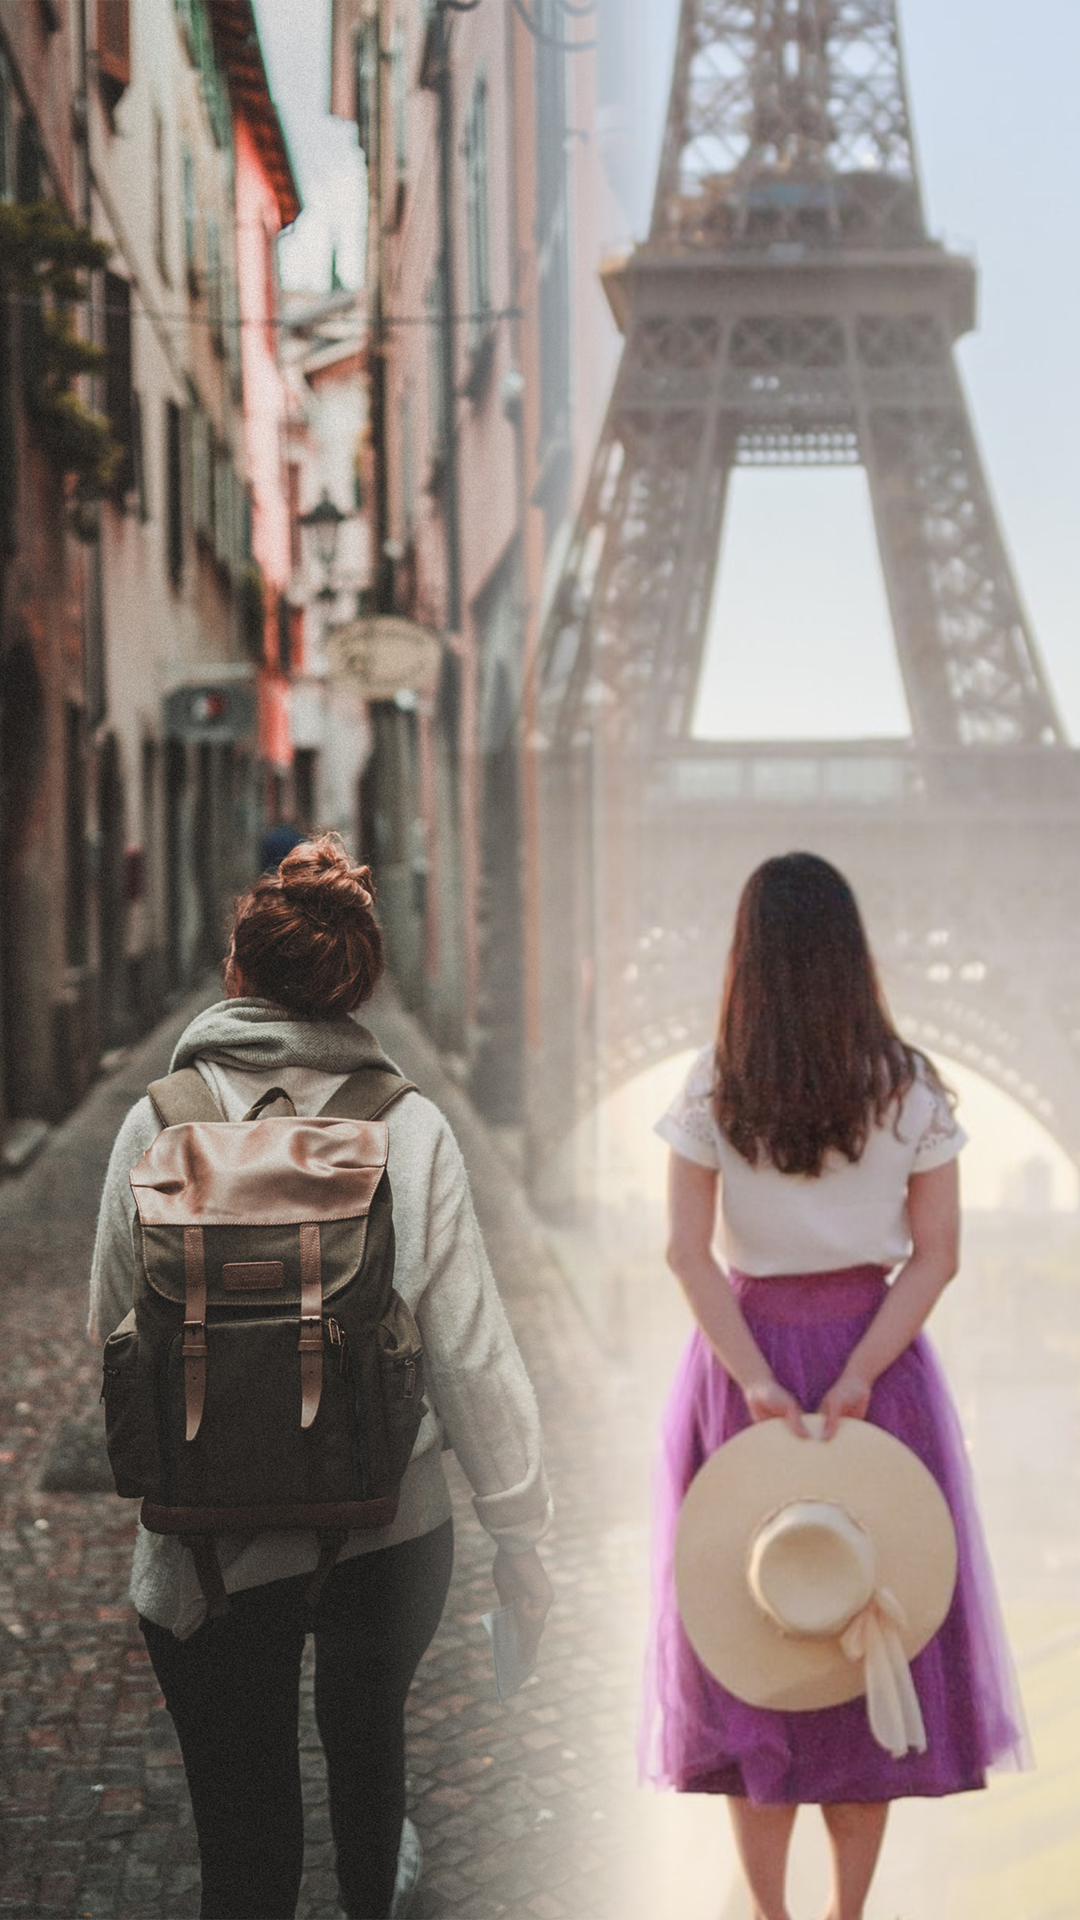
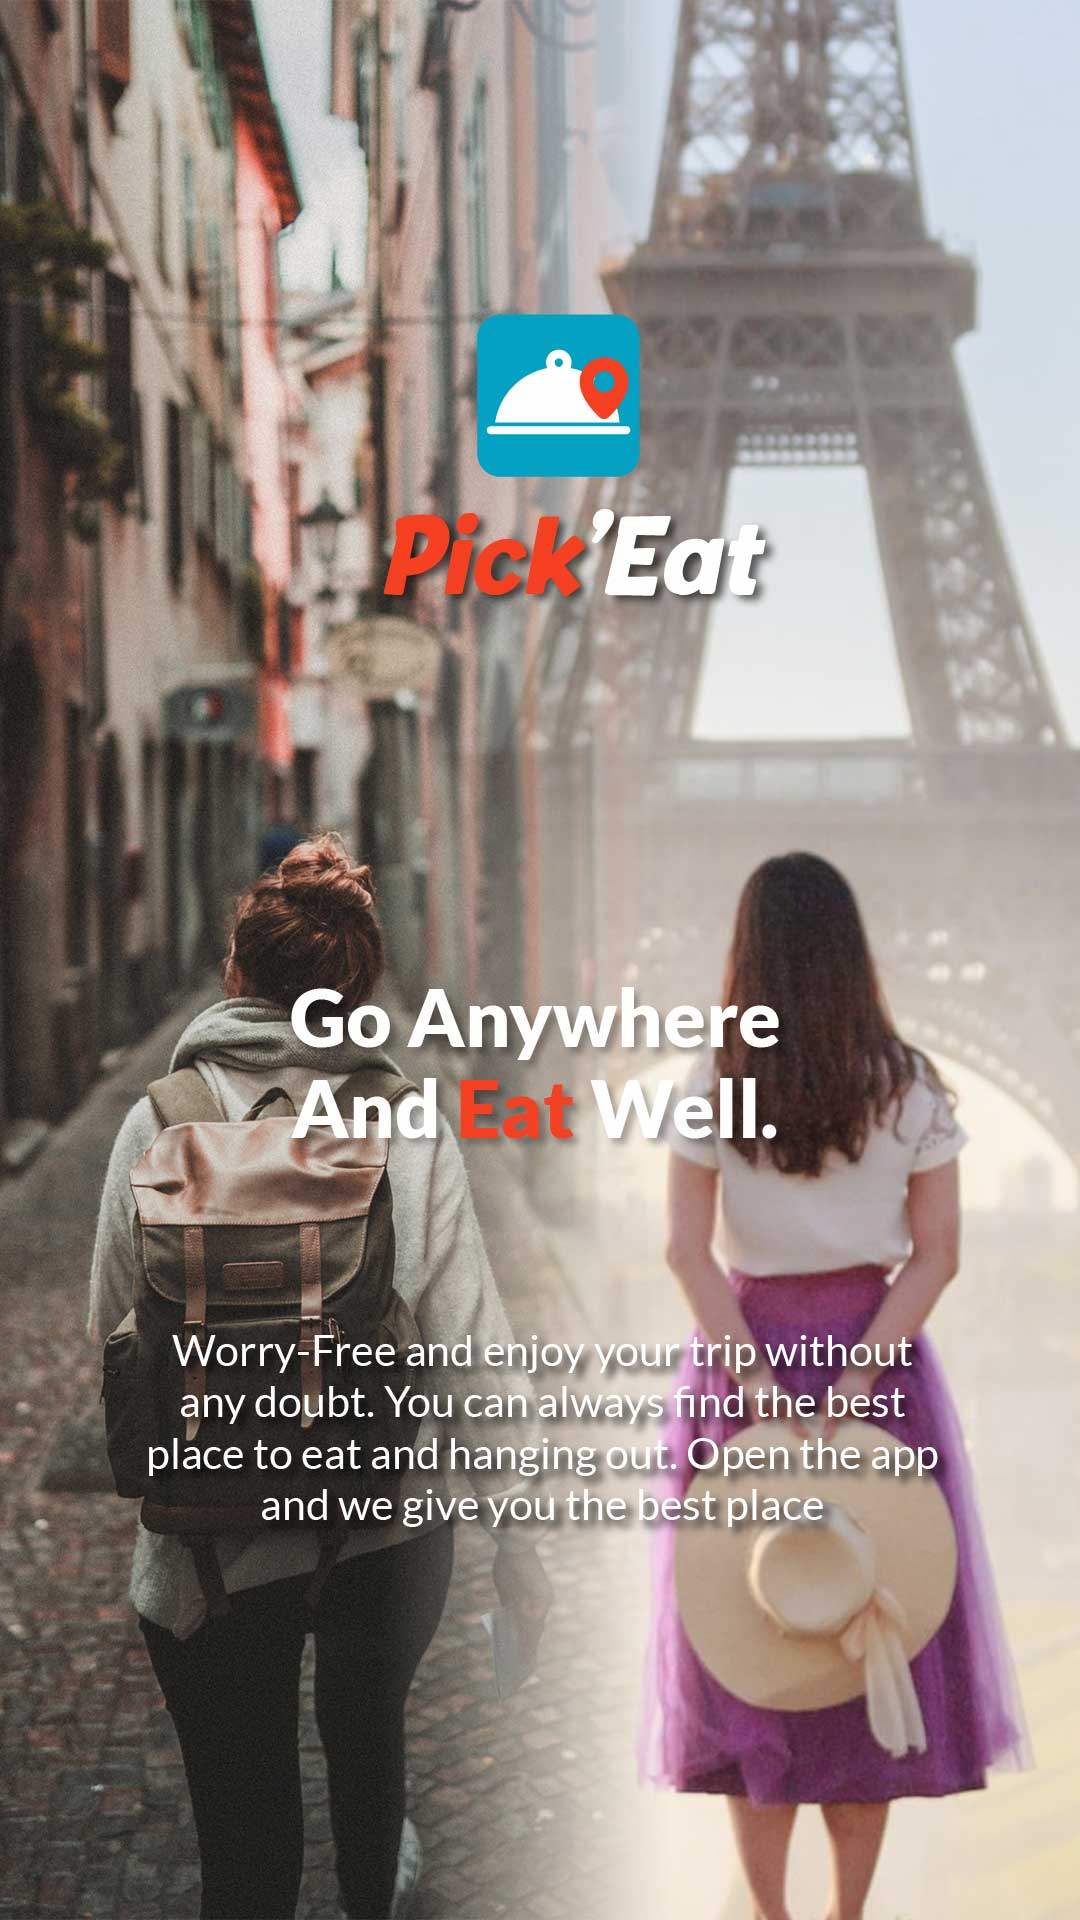
need to be fixed intro screen

Changed region(s): [[0.1222, 0.6875, 0.8861, 0.8125], [0.275, 0.5, 0.7333, 0.5938], [0.3361, 0.1562, 0.7333, 0.3125]]

diff --git a/lib/ui/onBoarding/onboarding_screens.dart b/lib/ui/onBoarding/onboarding_screens.dart
@@ -1,0 +1,118 @@
+import 'package:flutter/material.dart';
+import 'package:get/get.dart';
+import 'package:introduction_screen/introduction_screen.dart';
+import 'package:pickeat/common/style.dart';
+import 'package:pickeat/controller/preferences_controller.dart';
+import 'package:pickeat/ui/home_screen.dart';
+
+class OnBoardingScreen extends StatefulWidget {
+  static const String routeName = '/onBoarding_screens';
+  OnBoardingScreen({Key? key}) : super(key: key);
+
+  @override
+  _OnBoardingScreenState createState() => _OnBoardingScreenState();
+}
+
+class _OnBoardingScreenState extends State<OnBoardingScreen> {
+  final introKey = GlobalKey<IntroductionScreenState>();
+
+  void _onIntroEnd(context) {
+    Get.offAndToNamed(HomeScreen.routeName);
+  }
+
+  Widget _buildFullscrenImage() {
+    return Image.asset(
+      'assets/images/s1.jpg',
+      fit: BoxFit.cover,
+      height: double.infinity,
+      width: double.infinity,
+      alignment: Alignment.center,
+    );
+  }
+
+  Widget _buildImage(String assetName, [double width = 350]) {
+    return Image.asset('assets/images/$assetName', width: width);
+  }
+
+  @override
+  Widget build(BuildContext context) {
+    const pageDecoration = const PageDecoration(
+      titleTextStyle: TextStyle(fontSize: 28.0, fontWeight: FontWeight.w700),
+      descriptionPadding: EdgeInsets.fromLTRB(16.0, 0.0, 16.0, 16.0),
+      imagePadding: EdgeInsets.zero,
+    );
+    return GetBuilder<PreferencesController>(
+      builder: (prefs) {
+        return IntroductionScreen(
+          key: introKey,
+          // globalFooter: SizedBox(
+          //   width: double.infinity,
+          //   height: 60,
+          //   child: ElevatedButton(
+          //     child: Text('Let\'s Find Out'),
+          //     onPressed: () {},
+          //   ),
+          // ),
+          pages: [
+            PageViewModel(
+              title: "",
+              body: "",
+              image: _buildFullscrenImage(),
+              decoration: pageDecoration.copyWith(
+                contentMargin: const EdgeInsets.symmetric(horizontal: 16),
+                fullScreen: true,
+                bodyFlex: 2,
+                imageFlex: 3,
+              ),
+            ),
+            PageViewModel(
+                title: "Your Favorites is here",
+                body: "Everything that you like is here! There are plenty places you can explore with many foods and drinks to find what you like.",
+                image: _buildImage('stores.png', 300),
+                decoration: pageDecoration),
+            PageViewModel(
+                title: "Booking Or Comes by",
+                body: "It's all your choices! You can book the table or just coming by with your friends. Simply convenient",
+                image: _buildImage('booking.png', 250),
+                decoration: pageDecoration),
+            PageViewModel(
+                title: "Ready To Find Out?",
+                bodyWidget: Column(
+                  children: [
+                    Text(
+                      'We will help you to find out.',
+                      style: TextStyle(fontSize: 18),
+                    ),
+                    ElevatedButton(onPressed: (){
+                       Get.offAndToNamed(HomeScreen.routeName);
+                        prefs.disableFirstLaunch();
+                    }, child: Text("Find now"))
+                  ],
+                ),
+                image: _buildImage('trip.png', 250),
+                decoration: pageDecoration),
+          ],
+          next: Icon(Icons.arrow_forward),
+          onDone: () {
+            Get.offAndToNamed(HomeScreen.routeName);
+            prefs.disableFirstLaunch();
+          },
+          showSkipButton: true,
+          skipFlex: 0,
+          nextFlex: 0,
+          skip: const Text('Skip'),
+          curve: Curves.fastLinearToSlowEaseIn,
+          done: const Text('Done', style: TextStyle(fontWeight: FontWeight.w600)),
+          controlsMargin: const EdgeInsets.all(16),
+          dotsDecorator: const DotsDecorator(
+            size: Size(10.0, 10.0),
+            activeSize: Size(22.0, 10.0),
+            activeShape: RoundedRectangleBorder(
+              borderRadius: BorderRadius.all(Radius.circular(25.0)),
+            ),
+          ),
+        );
+      },
+    );
+  }
+}

diff --git a/lib/main.dart b/lib/main.dart
@@ -15,6 +15,7 @@ import 'package:pickeat/data/database/database_helper.dart';
 import 'package:pickeat/ui/detail_restaurant_screen.dart';
 import 'package:pickeat/ui/favorite_screen.dart';
 import 'package:pickeat/ui/home_screen.dart';
+import 'package:pickeat/ui/onBoarding/onboarding_screens.dart';
 import 'package:pickeat/ui/profile_screen.dart';
 import 'package:pickeat/ui/settings_screen.dart';
 import 'package:shared_preferences/shared_preferences.dart';
@@ -68,13 +69,14 @@ class _MyAppState extends State<MyApp> {
                   child: child,
                 ));
           },
-          initialRoute: HomeScreen.routeName,
+          initialRoute: preferences.isFirstLaunch.value ? OnBoardingScreen.routeName : HomeScreen.routeName,
           routes: {
             HomeScreen.routeName: (context) => HomeScreen(),
             DetailScreen.routeName: (context) => DetailScreen(restaurant: ModalRoute.of(context)?.settings.arguments as Restaurant),
             FavoriteScreen.routeName: (context) => FavoriteScreen(),
             ProfileScreen.routeName: (context) => ProfileScreen(),
             SettingsScreen.routeName: (context) => SettingsScreen(),
+            OnBoardingScreen.routeName: (context) => OnBoardingScreen(),
           },
         );
       },

diff --git a/lib/data/preferences/preferences_helper.dart b/lib/data/preferences/preferences_helper.dart
@@ -4,6 +4,9 @@ class PreferencesHelper {
   final Future<SharedPreferences> sharedPreferences;
   static const DARK_THEME = 'DARK_THEME';
   static const DAILY_REMINDER = 'DAILY_REMINDER';
+  static const FIRST_LAUNCH = 'FIRST_LAUNCH';
+  static const USER_LOGIN = 'USER_LOGIN';
+
 
   PreferencesHelper({required this.sharedPreferences});
 
@@ -25,5 +28,25 @@ class PreferencesHelper {
   void setDailyReminder(bool value) async {
     final prefs = await sharedPreferences;
     prefs.setBool(DAILY_REMINDER, value);
+  }
+
+  Future<bool> get isFirstLaunch async {
+    final prefs = await sharedPreferences;
+    return prefs.getBool(FIRST_LAUNCH) ?? true;
+  }
+
+  void setFirstLaunch(bool value) async {
+    final prefs = await sharedPreferences;
+    prefs.setBool(FIRST_LAUNCH, value);
+  }
+
+  Future<bool> get isLogin async {
+    final prefs = await sharedPreferences;
+    return prefs.getBool(USER_LOGIN) ?? false;
+  }
+
+  void setUserLogin(bool value) async {
+    final prefs = await sharedPreferences;
+    prefs.setBool(USER_LOGIN, value);
   }
 }

diff --git a/lib/controller/preferences_controller.dart b/lib/controller/preferences_controller.dart
@@ -8,10 +8,12 @@ class PreferencesController extends GetxController {
   PreferencesController({required this.preferencesHelper}) {
     _getDailyReminderPrefs();
     _getTheme();
+    _getFirstLaunch();
   }
 
   var isDarkTheme = false.obs;
   var isDailyActive = false.obs;
+  var isFirstLaunch = true.obs;
 
   ThemeData get themeData => isDarkTheme.value ? darkTheme : lightTheme;
 
@@ -25,6 +27,11 @@ class PreferencesController extends GetxController {
     update();
   }
 
+  void _getFirstLaunch() async {
+    isFirstLaunch.value = await preferencesHelper.isFirstLaunch;
+    update();
+  }
+
   void enableDarkTheme(bool value) {
     preferencesHelper.setDarkTheme(value);
     _getTheme();
@@ -34,6 +41,13 @@ class PreferencesController extends GetxController {
   void enableDailyPrefs(bool value) {
     preferencesHelper.setDailyReminder(value);
     _getDailyReminderPrefs();
+    update();
+  }
+
+  void disableFirstLaunch() {
+    
+    preferencesHelper.setFirstLaunch(false);
+    _getFirstLaunch();
     update();
   }
 }

diff --git a/test/controller/success_parsing_json_controller_test.dart b/test/controller/success_parsing_json_controller_test.dart
@@ -1,7 +1,25 @@
+import 'dart:convert';
+
 import 'package:flutter_test/flutter_test.dart';
+import 'package:pickeat/data/model/restaurant.dart';
+import 'package:http/http.dart' as http;
 
 void main() {
-  test('Fetching data from Internet', () {
+  test('Fetching data from Internet, Then Parse json to a list of restaurant object', () async {
+    // arrange
+    var restaurantsData;
+    var restaurant;
+    //Act
+    var dataFromApi = await http.get(Uri.parse("https://restaurant-api.dicoding.dev/list"));
+    var decode = jsonDecode(dataFromApi.body);
+
+    restaurantsData = List<Restaurant>.from((decode['restaurants'] as List).map((e) => Restaurant.fromJson(e)));
+    restaurant = restaurantsData[0]; 
+
+    //assert
+    expect(restaurant, isA<Restaurant>());
     
+    /// uncomment below for fail test
+    // expect(restaurant, isA<List<Restaurant>>());
   });
 }

diff --git a/lib/controller/restaurant_controller.dart b/lib/controller/restaurant_controller.dart
@@ -18,7 +18,7 @@ class RestaurantController extends GetxController {
   var _isSearch = false.obs;
   var _isNotFound = false.obs;
 
-  get restaurants => this._restaurants;
+  List<Restaurant> get restaurants => this._restaurants;
 
   set restaurants(var value) => this._restaurants = value;
 
